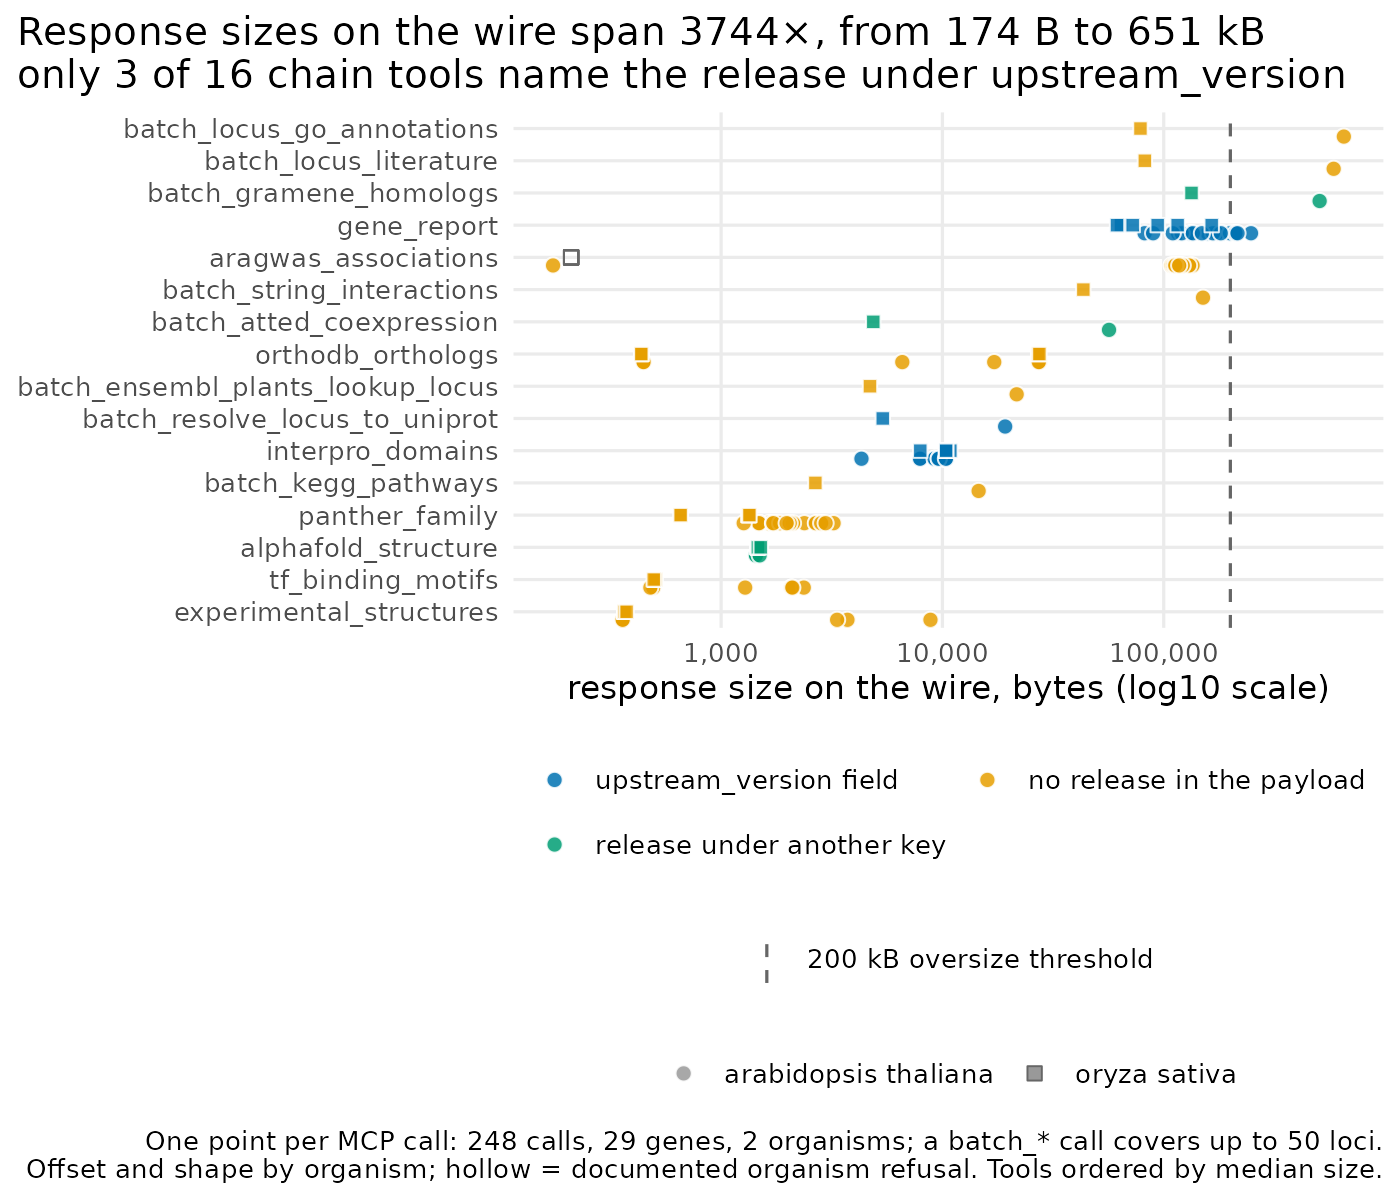
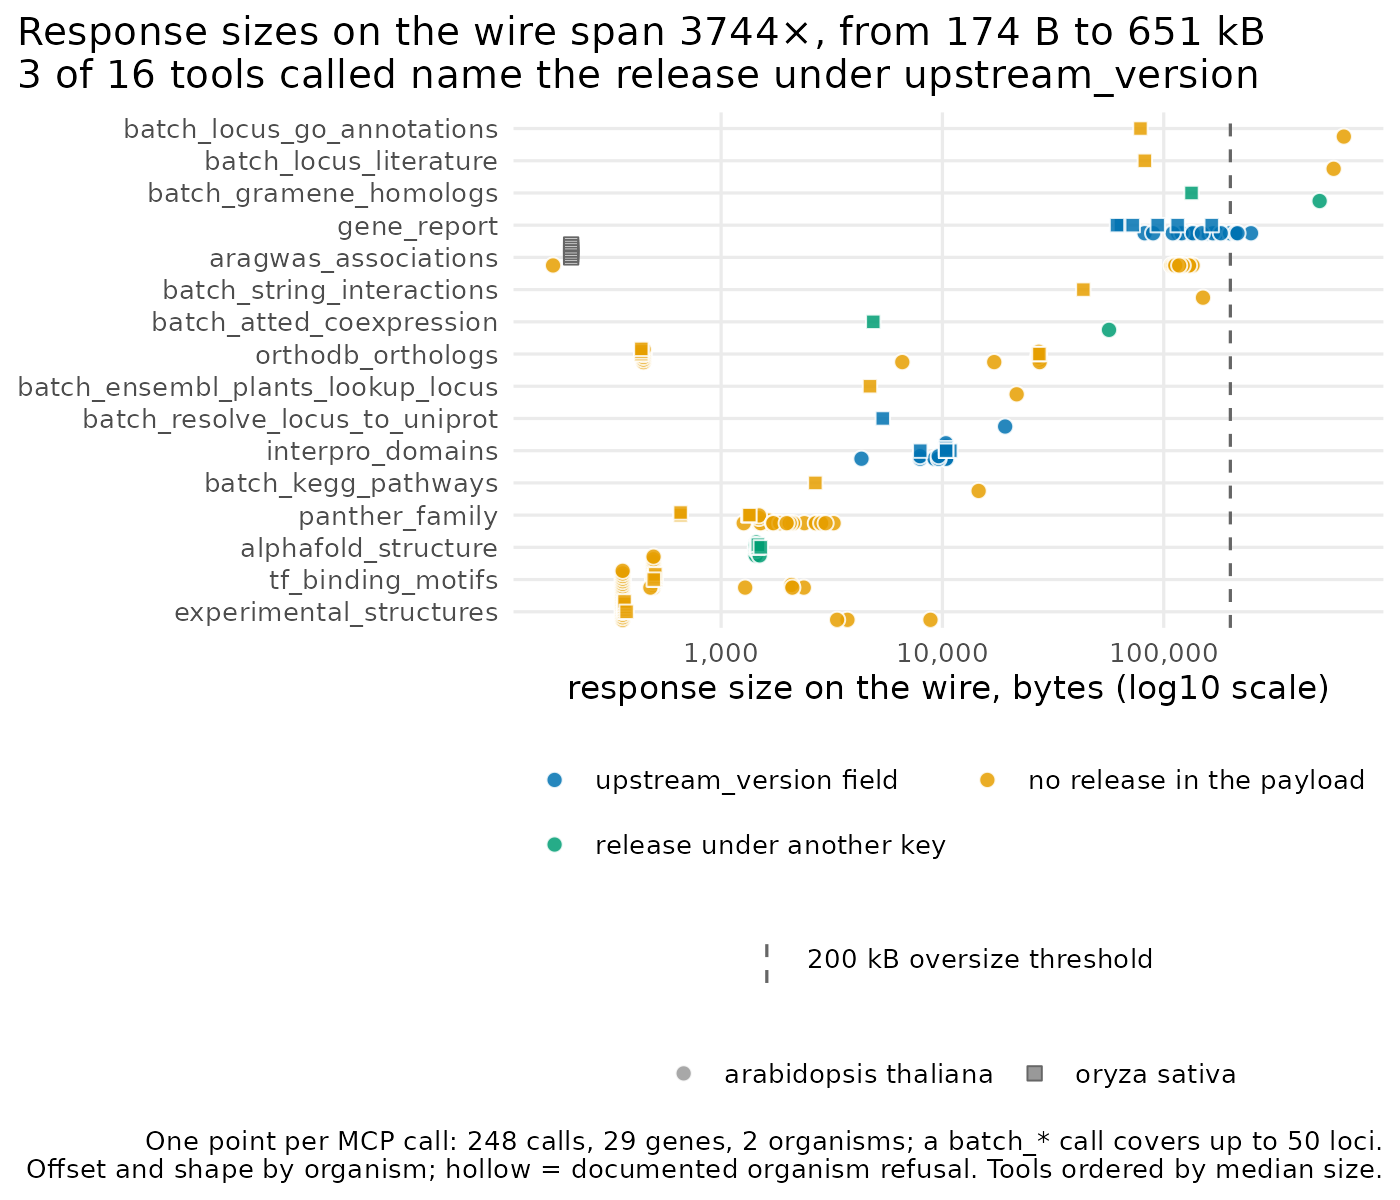
examples: fix round 1 of the family dossier review — recounted ortholog row, derived README counts, tie offset, undecidable candidates
- ortholog-tools-disagree said 16 of 26 was 19; a test now recounts
  ortholog_sources.tsv against the row's own numbers
- README.md / examples/README.md counts (248-call, 49 gaps) are asserted
  from calls.jsonl + gaps*.jsonl line counts
- plot_coverage.R: deterministic within-organism tie nudge so the six
  identical aragwas refusals are six countable points; title no longer
  clipped; 'tools called' wording
- enumerate_family.decide: a failed InterPro call is 'undecided', not
  'false'; 2 Arabidopsis + 8 wheat candidates re-labelled; new gap row
  candidate-undecidable (40 hand + 9 auto = 49); PAGE.md, issue drafts
  14/15/19 and the gaps-page test re-synced from the log
- free-text-null-outside-arabidopsis derives 17 of 23; silent-empty-result
  names the two rice loci; B3 comment states what the pattern is for

diff --git a/tests/test_enumerate_family.py b/tests/test_enumerate_family.py
@@ -18,6 +18,7 @@ import asyncio
 import csv
 import io
 import json
+import re
 import sys
 from pathlib import Path
 
@@ -91,6 +92,15 @@ def test_closure_reaches_members_by_paralog_and_by_scan_and_rejects_by_interpro(
         "interpro_entries": "IPR003340",
     }
     assert "AT1G00030" not in by_locus
+    # Third state, same run: a candidate whose interpro_domains call FAILED
+    # is neither kept nor rejected — `undecided`, with the error as its
+    # reason — beside the kept (AT1G00010) and rejected (AT1G00030) rows
+    # above, so the three values are shown to be distinct outcomes.
+    assert cand["AT1G00070"]["kept"] == "undecided"
+    assert cand["AT1G00070"]["interpro_entries"].startswith("call failed: [NotFoundError]")
+    assert cand["AT1G00010"]["kept"] == "true"
+    assert "AT1G00070" not in by_locus
+    assert {r["kept"] for r in candidates} == {"true", "false", "undecided"}
     # ...and a gene the candidate filter never matched, or that is not
     # protein-coding, was never sent to InterPro at all.
     assert "AT1G00020" not in cand
@@ -157,6 +167,47 @@ def test_closure_reaches_members_by_paralog_and_by_scan_and_rejects_by_interpro(
         if c["tool"] == "ensembl_region_query" and c["args"]["region"] == "2"
     ]
     assert windows == [("2", 4_000_000, False), ("2", 2_000_000, True), ("2", 2_000_000, False)]
+
+
+ARF_DIR = Path(__file__).parent.parent / "examples" / "arf_family"
+
+
+def _recount_ortholog_sources() -> dict[str, int]:
+    with open(ARF_DIR / "ortholog_sources.tsv") as f:
+        rows = list(csv.DictReader(f, delimiter="\t"))
+    out = {}
+    for tool in ("gramene_homologs", "orthodb_orthologs"):
+        mine = [r for r in rows if r["tool"] == tool]
+        out[tool] = len({r["query_locus"] for r in mine if r["hits"] != "none"})
+        out[f"{tool}_queries"] = len({r["query_locus"] for r in mine})
+    return out
+
+
+def test_the_ortholog_disagreement_row_matches_a_recount_of_its_own_evidence():
+    """The `ortholog-tools-disagree` gap row says "N of M queries" for each
+    tool; the numbers are re-derived here from the file the row cites.
+    Round 1 of review found 19 written where the file says 16 — a false
+    number in text drafted to become a public issue — because nothing
+    read the row against its evidence."""
+    rows = [json.loads(line) for line in (ARF_DIR / "gaps.jsonl").read_text().splitlines()]
+    row = next(r for r in rows if r["kind"] == "ortholog-tools-disagree")
+    assert "ortholog_sources.tsv" in row["raw"]
+    counts = _recount_ortholog_sources()
+    assert counts["gramene_homologs_queries"] == counts["orthodb_orthologs_queries"]
+    m = counts["gramene_homologs_queries"]
+    claims = dict(
+        re.findall(
+            r"(gramene_homologs|orthodb_orthologs) names (?:a rice or wheat locus|one) for (\d+) of",
+            row["returned"],
+        )
+    )
+    assert set(claims) == {"gramene_homologs", "orthodb_orthologs"}, row["returned"]
+    assert f"of {m} queries" in row["returned"]
+    assert int(claims["gramene_homologs"]) == counts["gramene_homologs"]
+    assert int(claims["orthodb_orthologs"]) == counts["orthodb_orthologs"]
+    # Positive control for the recount: it is not trivially zero or total.
+    assert 0 < counts["gramene_homologs"] < m
+    assert counts["orthodb_orthologs"] == 0
 
 
 def test_a_seed_without_the_family_entry_stops_the_run():

diff --git a/examples/arf_family/enumerate_family.py b/examples/arf_family/enumerate_family.py
@@ -25,9 +25,11 @@ Stages, in order:
    upward until a region name is unknown, and learns each length from the
    HTTP 400 Ensembl returns for a window past the end.
 3. **InterPro arbiter** (`interpro_domains`): a candidate is a member iff
-   its InterPro entries include `FAMILY_ENTRY`. Every candidate — kept or
-   rejected — is written to `family_candidates.tsv` with the entries it
-   carries, so the rejections are as checkable as the members.
+   its InterPro entries include `FAMILY_ENTRY`. Every candidate is written
+   to `family_candidates.tsv` with `kept` in `true` / `false` /
+   `undecided` — the last for a candidate whose call failed, which is not
+   a rejection — and the entries it carries, so the rejections are as
+   checkable as the members.
 4. **Orthologs** (`gramene_homologs` with `homology_type="ortholog"` and
    `orthodb_orthologs`): from every accepted member, keep hits that the
    locus-id shape or OrthoDB's own `organism` field places in one of
@@ -72,8 +74,8 @@ RETRY_PAUSE_S = 10.0
 WALLTIME_S = 3 * 3600
 
 # Free text is a candidate filter only (stage 2); InterPro decides (stage 3).
-# `B3` is included because every family member carries a B3 domain and
-# some descriptions name only that, not the family.
+# `B3` is included because some descriptions name only that, not the
+# family.
 CANDIDATE_RE = re.compile(r"auxin|\bARF|\bB3\b", re.IGNORECASE)
 
 # Locus-id shapes per organism, for classifying `gramene_homologs` rows,
@@ -247,11 +249,13 @@ class Enumerator:
         """Query InterPro for `locus`, record the candidate row, return kept."""
         res = await self.call("interpro_domains", {"locus": locus, "organism": organism})
         if not res.ok:
+            # A failed call is not a "no": the candidate stays undecided,
+            # and the member count carries that margin.
             self.candidates[locus] = {
                 "locus": locus,
                 "organism": organism,
                 "source": source,
-                "kept": "false",
+                "kept": "undecided",
                 "interpro_entries": f"call failed: {res.error}"[:300].strip(),
             }
             return False

diff --git a/tests/test_arf_readme_numbers.py b/tests/test_arf_readme_numbers.py
@@ -1,0 +1,39 @@
+"""The two README sentences that describe the ARF dossier run carry its
+numbers — call count and gap count — and nothing else in the suite reads
+them: after the full-family run they still said "48-call" and "30 gaps"
+(round 1 of the task-7 review). Both numbers are derived here from the
+committed artifacts and must appear in both sentences.
+"""
+
+from __future__ import annotations
+
+from pathlib import Path
+
+ROOT = Path(__file__).resolve().parents[1]
+ARF = ROOT / "examples" / "arf_family"
+
+
+def _line_count(path: Path) -> int:
+    return sum(1 for line in path.read_text().splitlines() if line.strip())
+
+
+def test_readme_sentences_carry_the_run_counts():
+    calls = _line_count(ARF / "calls.jsonl")
+    gaps = _line_count(ARF / "gaps.jsonl") + _line_count(ARF / "gaps_auto.jsonl")
+    # The counts really came from the run, not from empty files.
+    assert calls > 100 and gaps > 30, (calls, gaps)
+
+    checked = 0
+    for readme in (ROOT / "README.md", ROOT / "examples" / "README.md"):
+        text = readme.read_text()
+        sentence = next(
+            para for para in text.split("\n\n") if "arf_family/PAGE.md" in para
+        )  # exactly one paragraph links the page; StopIteration if none does
+        assert f"{calls}-call" in sentence, (readme.name, sentence)
+        assert f"{gaps} gaps" in sentence, (readme.name, sentence)
+        checked += 1
+    assert checked == 2
+
+    # Positive control: the same checks fire on the stale wording.
+    stale = "A worked 48-call run over three loci, with the 30 gaps it turned up"
+    assert f"{calls}-call" not in stale and f"{gaps} gaps" not in stale

diff --git a/tests/test_arf_gaps_page.py b/tests/test_arf_gaps_page.py
@@ -1,6 +1,6 @@
 """`PAGE.md`'s gap list is generated, and these tests are what keeps it so.
 
-The page shows all 48 gap rows from the 248-call ARF family dossier run. Hand
+The page shows all 49 gap rows from the 248-call ARF family dossier run. Hand
 typing them would produce a page that is right the day it is written and
 silently wrong afterwards — `gaps.jsonl` has already been corrected once,
 four rows of it, after the first pass filed claims that turned out to be
@@ -192,7 +192,7 @@ def test_every_gap_row_reaches_the_page() -> None:
     """
     hand = read_rows(render_gaps.GAPS_PATH)
     auto = read_rows(render_gaps.GAPS_AUTO_PATH)
-    assert (len(hand), len(auto)) == (39, 9)
+    assert (len(hand), len(auto)) == (40, 9)
 
     section = extract_section(render_gaps.PAGE_PATH.read_text())
     bullets = [line for line in section.splitlines() if line.startswith("- **")]

diff --git a/tests/_fake_mcp_server.py b/tests/_fake_mcp_server.py
@@ -57,6 +57,9 @@ FAMILY_GENOME: dict[str, list[dict]] = {
         {"gene_id": "AT1G00020", "biotype": "protein_coding", "description": "unrelated"},
         {"gene_id": "AT1G00030", "biotype": "protein_coding", "description": "B3 family"},
         {"gene_id": "AT1G00040", "biotype": "lncRNA", "description": "auxin lncRNA"},
+        # Matches the filter but has no InterPro fixture: its interpro_domains
+        # call FAILS, which must leave it undecided, not rejected.
+        {"gene_id": "AT1G00070", "biotype": "protein_coding", "description": "auxin, no record"},
     ],
     "2": [
         {"gene_id": "AT2G00010", "biotype": "protein_coding", "description": "B3 family protein"},

diff --git a/examples/arf_family/render_gaps.py b/examples/arf_family/render_gaps.py
@@ -1,8 +1,8 @@
 """Render the run's gap log as the `## Known gaps` section of `PAGE.md`.
 
-`gaps.jsonl` (39 hand-logged rows) and `gaps_auto.jsonl` (9 rows the
+`gaps.jsonl` (40 hand-logged rows) and `gaps_auto.jsonl` (9 rows the
 runner flagged itself) are the record of what the 248-call family
-dossier run turned up. `PAGE.md` shows all 48 of them. Typing them into the page by
+dossier run turned up. `PAGE.md` shows all 49 of them. Typing them into the page by
 hand would mean a page that is correct on the day it is written and
 silently wrong the next time a row is corrected — which has already
 happened once here: four rows in `gaps.jsonl` were false and were

diff --git a/examples/arf_family/PAGE.md b/examples/arf_family/PAGE.md
@@ -8,7 +8,7 @@ _Triticum aestivum_ members the tools could name and verify — in a
 single sitting: every response captured to [`raw/`](raw), and every
 place an answer came back unusable, inconsistent or silently short
 written down as it was found. It is a showcase and a defect list at the
-same time. The recipes below are what the tools do well; the 48 rows
+same time. The recipes below are what the tools do well; the 49 rows
 under **Known gaps** are what they do not.
 
 Provenance: run 2026-09-21 against server version `1.21.0` — 248 MCP
@@ -20,7 +20,10 @@ errors, 3.9 minutes wall. The family itself came from a separate
 [`enumeration_calls.jsonl`](enumeration_calls.jsonl)): the three
 starting loci in [`genes.tsv`](genes.tsv), then every candidate the
 tools could reach, each decided by `interpro_domains` and recorded in
-[`family_candidates.tsv`](family_candidates.tsv) whether kept or not.
+[`family_candidates.tsv`](family_candidates.tsv) whether kept or not —
+325 candidates, of which 2 could not be decided (InterPro answered an
+empty body; `candidate-undecidable` below), so the 23 is 23 of a
+possible 25.
 Chain [`chain.py`](chain.py), per-call log [`calls.jsonl`](calls.jsonl),
 captured responses [`raw/`](raw).
 
@@ -228,7 +231,7 @@ nowhere yet.
 
 ## Known gaps
 
-All 48 rows the run logged, one line each: what was attempted, what came back, what was expected instead. Full text and the raw response each row was read from are in [`gaps.jsonl`](gaps.jsonl) and [`gaps_auto.jsonl`](gaps_auto.jsonl).
+All 49 rows the run logged, one line each: what was attempted, what came back, what was expected instead. Full text and the raw response each row was read from are in [`gaps.jsonl`](gaps.jsonl) and [`gaps_auto.jsonl`](gaps_auto.jsonl).
 
 ### Defects in this tool
 
@@ -256,7 +259,7 @@ All 48 rows the run logged, one line each: what was attempted, what came back, w
 - **`interpro_domains`** (family-enumeration-cost) — 52 ensembl_region_query calls (5 chromosomes in 4 Mb windows, 8 of the 52 failed: HTTP 500 or ReadTimeout after the… — expected: a tool that takes IPR010525 (or PTHR31384) and an organism and returns the loci
 - **several tools** (no-assembly-metadata) — no tool reports seq-region names or lengths. The walk learns them from error text: region '6' answers HTTP 400 'No… — expected: a tool, or a field on ensembl_plants_lookup_locus, that lists an assembly's seq-regions and their lengths
 - **`gramene_homologs`** (ortholog-cap-hides-organisms) — gramene_homologs: total 177 / 211 / 340 for the three seeds, 100 returned, and zero rows shaped like a rice or wheat… — expected: a target-organism filter on both tools, or pagination, so a cap of 100 cannot silently exclude the organism asked for
-- **several tools** (ortholog-tools-disagree) — one disagreement class, not a per-gene one: gramene_homologs names a rice or wheat locus for 19 of 26 queries… — expected: both tools answering for the organism asked, so agreement is measurable
+- **several tools** (ortholog-tools-disagree) — one disagreement class, not a per-gene one: gramene_homologs names a rice or wheat locus for 16 of 26 queries… — expected: both tools answering for the organism asked, so agreement is measurable
 - **`kegg_pathways`** (batch-refusal-shape) — the single tool is an isError result: '[OrganismNotSupported] backend kegg has no ID for triticum_aestivum'. The batch… — expected: one refusal shape for the two forms of one tool, and descriptions that match the organism list the error prints
 - **`kegg_pathways`** (empty-as-error) — an empty answer is an error: kegg_pathways answers '[NotFoundError] KEGG: no pathway memberships for Os01g0236300… — expected: an ok result with an empty list and the count 0, the shape locus_literature already uses for hitCount 0
 - **`gramene_homologs`** (oversize) — 23 loci: over 200 kB on the wire (batch), largest 506333 bytes — expected: a usable answer within 200 kB
@@ -286,6 +289,7 @@ All 48 rows the run logged, one line each: what was attempted, what came back, w
 - **`gramene_homologs`** (paralog-closure-empty) — total 0 and an empty homologs list for AT1G19850 and AT1G59750; 3 hits for AT2G28350 (AT4G30080, AT1G77850… — expected: the in-species paralogs of a locus, or a statement that the projection has none
 - **`interpro_domains`** (wheat-locus-unresolvable) — all 8 fail the same way: '[NotFoundError] UniProt has no entry for gene=TraesCS3A02G159200 organism_id=4565'… — expected: either a resolution path for IWGSC gene ids or an error that says the id form is not indexed
 - **`locus_literature`** (silent-empty-result) — hitCount 0, returned 0 and an empty hits list for 6 of the 23 loci in the run (AT1G19850, AT1G59750, AT2G46530… — expected: an upstream status on every answer, so an empty list carries whether the source answered
+- **`interpro_domains`** (candidate-undecidable) — 2 of the 325 could not be decided: AT1G01335 and AT2G36920 answer 'InterPro entry/protein → HTTP 204: ' - an empty… — expected: a found=false answer with a stated reason, so 'no record' and 'no answer' are different results
 
 ## Cite
 

diff --git a/examples/arf_family/issues/14-no-way-from-a-family-entry-to-its-loci-per-organism.md b/examples/arf_family/issues/14-no-way-from-a-family-entry-to-its-loci-per-organism.md
@@ -9,7 +9,7 @@ captured response to read it back from.
 
 Task 7 of the dossier scaled the three starting loci to the whole family through the tools alone. The brief's route — close over `gramene_homologs` paralogs — stops at 6 loci because the paralog projection is empty for two of the three seeds (`paralog-closure-empty`, origin unverified from inside the MCP). What did work is a genome walk with `ensembl_region_query`, a free-text candidate filter, and `interpro_domains` as the arbiter on every candidate; the two rows below are what that route costs and what it needs that no tool provides. The free-text filter cannot be repeated in rice or wheat, where the description field is null (`free-text-null-outside-arabidopsis`, an upstream value).
 
-Covers 4 rows of `gaps.jsonl`.
+Covers 5 rows of `gaps.jsonl`.
 
 ## `family-enumeration-cost`
 
@@ -35,6 +35,13 @@ Covers 4 rows of `gaps.jsonl`.
 ## `free-text-null-outside-arabidopsis`
 
 - **Attempted:** repeat the region walk's candidate filter in rice and wheat
-- **Returned:** ensembl_region_query 1:1-1000000 on oryza_sativa returns 165 protein-coding genes with description on 1; 1A:1-1000000 on triticum_aestivum returns 17 protein-coding genes with description on 0. The free-text candidate filter that found 23 of 23 Arabidopsis members has nothing to read in either genome, so the walk cannot be repeated there without asking interpro_domains about every gene.
+- **Returned:** ensembl_region_query 1:1-1000000 on oryza_sativa returns 165 protein-coding genes with description on 1; 1A:1-1000000 on triticum_aestivum returns 17 protein-coding genes with description on 0. The free-text candidate filter that found 17 of the 23 Arabidopsis members (the other 6 came from the seeds and the paralog closure) has nothing to read in either genome, so the walk cannot be repeated there without asking interpro_domains about every gene.
 - **Expected:** a structured family or domain field per gene, the same in every organism
 - **Check:** `raw/_probe_region_descriptions.json`
+
+## `candidate-undecidable`
+
+- **Attempted:** decide 325 family candidates with interpro_domains, as enumerate_family.py stage 3
+- **Returned:** 2 of the 325 could not be decided: AT1G01335 and AT2G36920 answer 'InterPro entry/protein → HTTP 204: ' - an empty body from InterPro, surfaced as a failed call with no entry list. They are recorded as kept=undecided in family_candidates.tsv, not as rejected, and the 23-member count carries that margin; whether InterPro has no record for these proteins or answered empty this once cannot be told from the output. The 8 wheat loci are the same state for a different reason (wheat-locus-unresolvable).
+- **Expected:** a found=false answer with a stated reason, so 'no record' and 'no answer' are different results
+- **Check:** `examples/arf_family/family_candidates.tsv, examples/arf_family/enumeration_calls.jsonl`

diff --git a/examples/arf_family/issues/19-an-empty-literature-answer-carried-no-sign-it-was-transient.md b/examples/arf_family/issues/19-an-empty-literature-answer-carried-no-sign-it-was-transient.md
@@ -14,6 +14,6 @@ Covers 1 row of `gaps.jsonl`.
 ## `silent-empty-result`
 
 - **Attempted:** read the literature for every Arabidopsis member through batch_locus_literature, and again through gene_report's own locus_literature step
-- **Returned:** hitCount 0, returned 0 and an empty hits list for 6 of the 23 loci in the run (AT1G19850, AT1G59750, AT2G46530, AT4G23980, AT5G37020, AT5G62000), with ok=true; gene_report's literature step for AT1G19850 in the same run is also empty (150 B). Re-asked 40 minutes later, the single tool answers hitCount 91 / 34 / 22 / 24 / 69 / 69 and the batch tool the same. Nothing in the empty answer distinguishes 'no papers' from 'Europe PMC did not answer this time'; whether the zero came from upstream or from the server's cache cannot be told from the output.
+- **Returned:** hitCount 0, returned 0 and an empty hits list for 6 of the 23 loci in the run (AT1G19850, AT1G59750, AT2G46530, AT4G23980, AT5G37020, AT5G62000), with ok=true; gene_report's literature step for AT1G19850 in the same run is also empty (150 B). Two rice loci, Os02g0141100 and Os08g0520550, also came back hitCount 0 and were not re-asked. Re-asked 40 minutes later, the single tool answers hitCount 91 / 34 / 22 / 24 / 69 / 69 and the batch tool the same. Nothing in the empty answer distinguishes 'no papers' from 'Europe PMC did not answer this time'; whether the zero came from upstream or from the server's cache cannot be told from the output.
 - **Expected:** an upstream status on every answer, so an empty list carries whether the source answered
-- **Check:** `raw/AT1G19850__locus_literature.json, raw/AT1G19850__gene_report.json, raw/_probe_literature_recheck.json`
+- **Check:** `raw/AT1G19850__locus_literature.json, raw/AT1G19850__gene_report.json, raw/_probe_literature_recheck.json, raw/Os02g0141100__locus_literature.json`

diff --git a/examples/arf_family/issues/15-ortholog-caps-hide-the-organism-asked-for.md b/examples/arf_family/issues/15-ortholog-caps-hide-the-organism-asked-for.md
@@ -21,6 +21,6 @@ Covers 2 rows of `gaps.jsonl`.
 ## `ortholog-tools-disagree`
 
 - **Attempted:** reconcile the two ortholog tools' answers per Arabidopsis member
-- **Returned:** one disagreement class, not a per-gene one: gramene_homologs names a rice or wheat locus for 19 of 26 queries; orthodb_orthologs names one for 0 of 26. Every disagreement is the cap-by-order effect above, so the union is gramene's answer alone and the table cannot say whether OrthoDB agrees.
+- **Returned:** one disagreement class, not a per-gene one: gramene_homologs names a rice or wheat locus for 16 of 26 queries; orthodb_orthologs names one for 0 of 26. Every disagreement is the cap-by-order effect above, so the union is gramene's answer alone and the table cannot say whether OrthoDB agrees.
 - **Expected:** both tools answering for the organism asked, so agreement is measurable
 - **Check:** `examples/arf_family/ortholog_sources.tsv`

diff --git a/CHANGELOG.md b/CHANGELOG.md
@@ -9,7 +9,7 @@
   `interpro_domains` as the arbiter on 325 candidates), plus the 6 rice and
   0 wheat members the ortholog tools could name and verify — 248 MCP calls,
   every response captured under `raw/`, a per-tool coverage table and
-  figure, and 48 logged gaps rendered onto `PAGE.md` by `render_gaps.py`
+  figure, and 49 logged gaps rendered onto `PAGE.md` by `render_gaps.py`
   with 19 issue drafts (not filed). Findings that came out of scaling up:
   both ortholog tools cap at 100 rows with no target-organism filter, so
   rice and wheat never come back from OrthoDB and rarely from Gramene; no

diff --git a/README.md b/README.md
@@ -63,7 +63,7 @@ Swap in any locus and pass `organism=` for cross-species — e.g. rice
 `Os01g0100100` (`oryza_sativa`) — and it routes to the right backends
 automatically.
 
-A worked 48-call run over three loci, with the gaps it turned up, is in [`examples/arf_family/PAGE.md`](examples/arf_family/PAGE.md).
+A worked 248-call run over 29 genes in two organisms, with the 49 gaps it turned up, is in [`examples/arf_family/PAGE.md`](examples/arf_family/PAGE.md).
 
 ## 🛠 Tools
 
